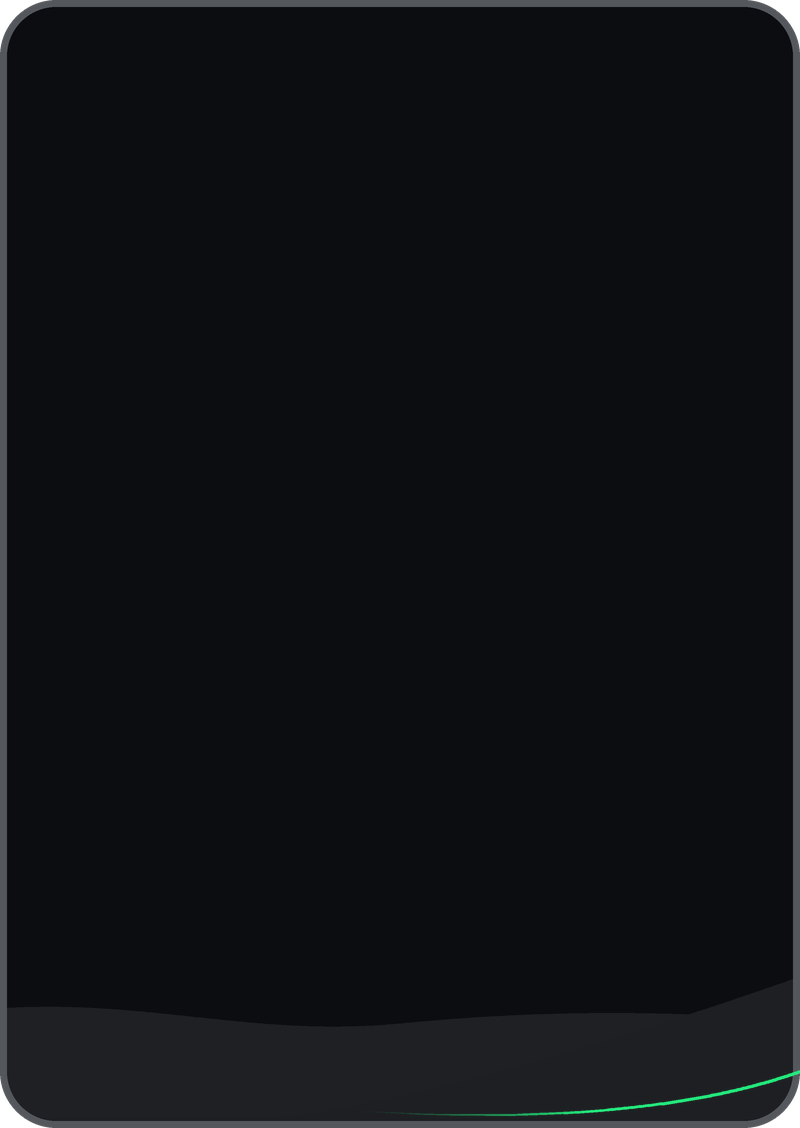
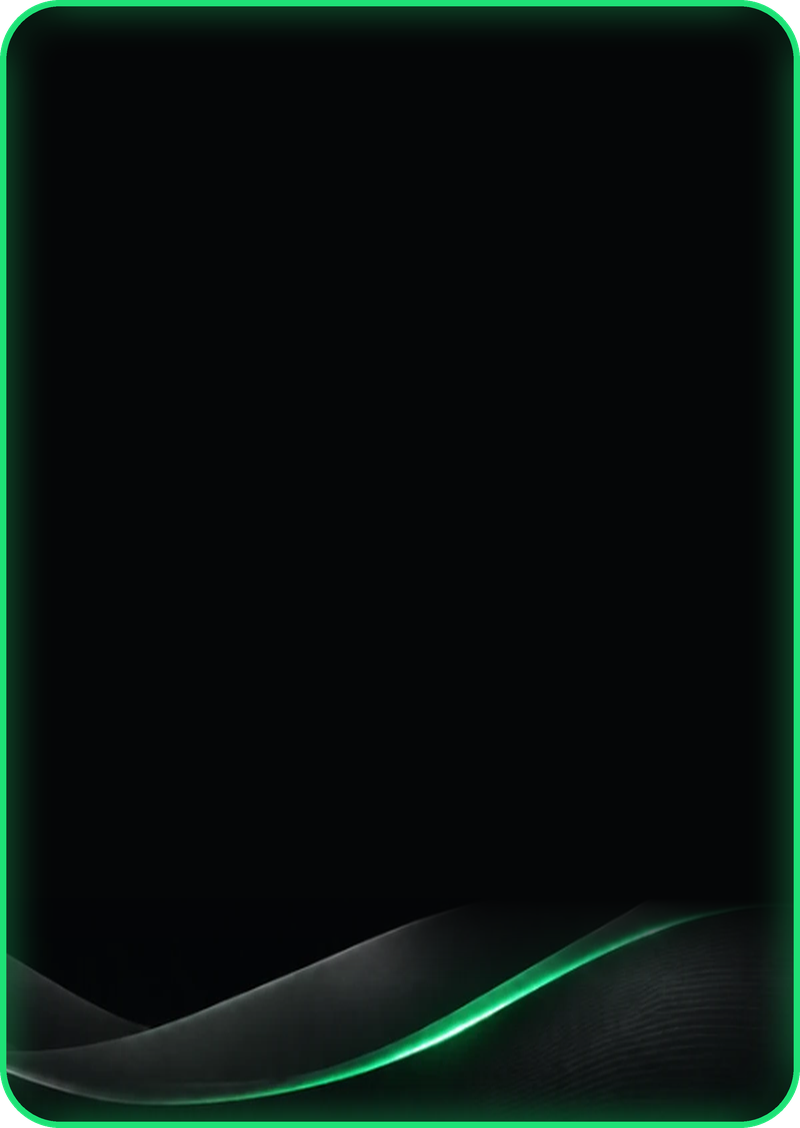
MediaHere for Windows 1.1.5: phone/narrow card backgrounds match new buttons
Claude-Session: https://claude.ai/code/session_01Kckagess5iiSDfmn2JtSuT

Changed region(s): [[0.0, 0.0, 1.0, 1.0]]

diff --git a/windows/CHANGELOG.md b/windows/CHANGELOG.md
@@ -3,6 +3,11 @@
 All notable changes to the Windows edition are listed here. The section for each version is shown
 to users inside the app when an update is available.
 
+## v1.1.5 — 2026-11-06
+
+### Changed
+- Matching card backgrounds for the Live TV and Video on Demand tiles on narrow windows.
+
 ## v1.1.4 — 2026-11-06
 
 ### Changed
